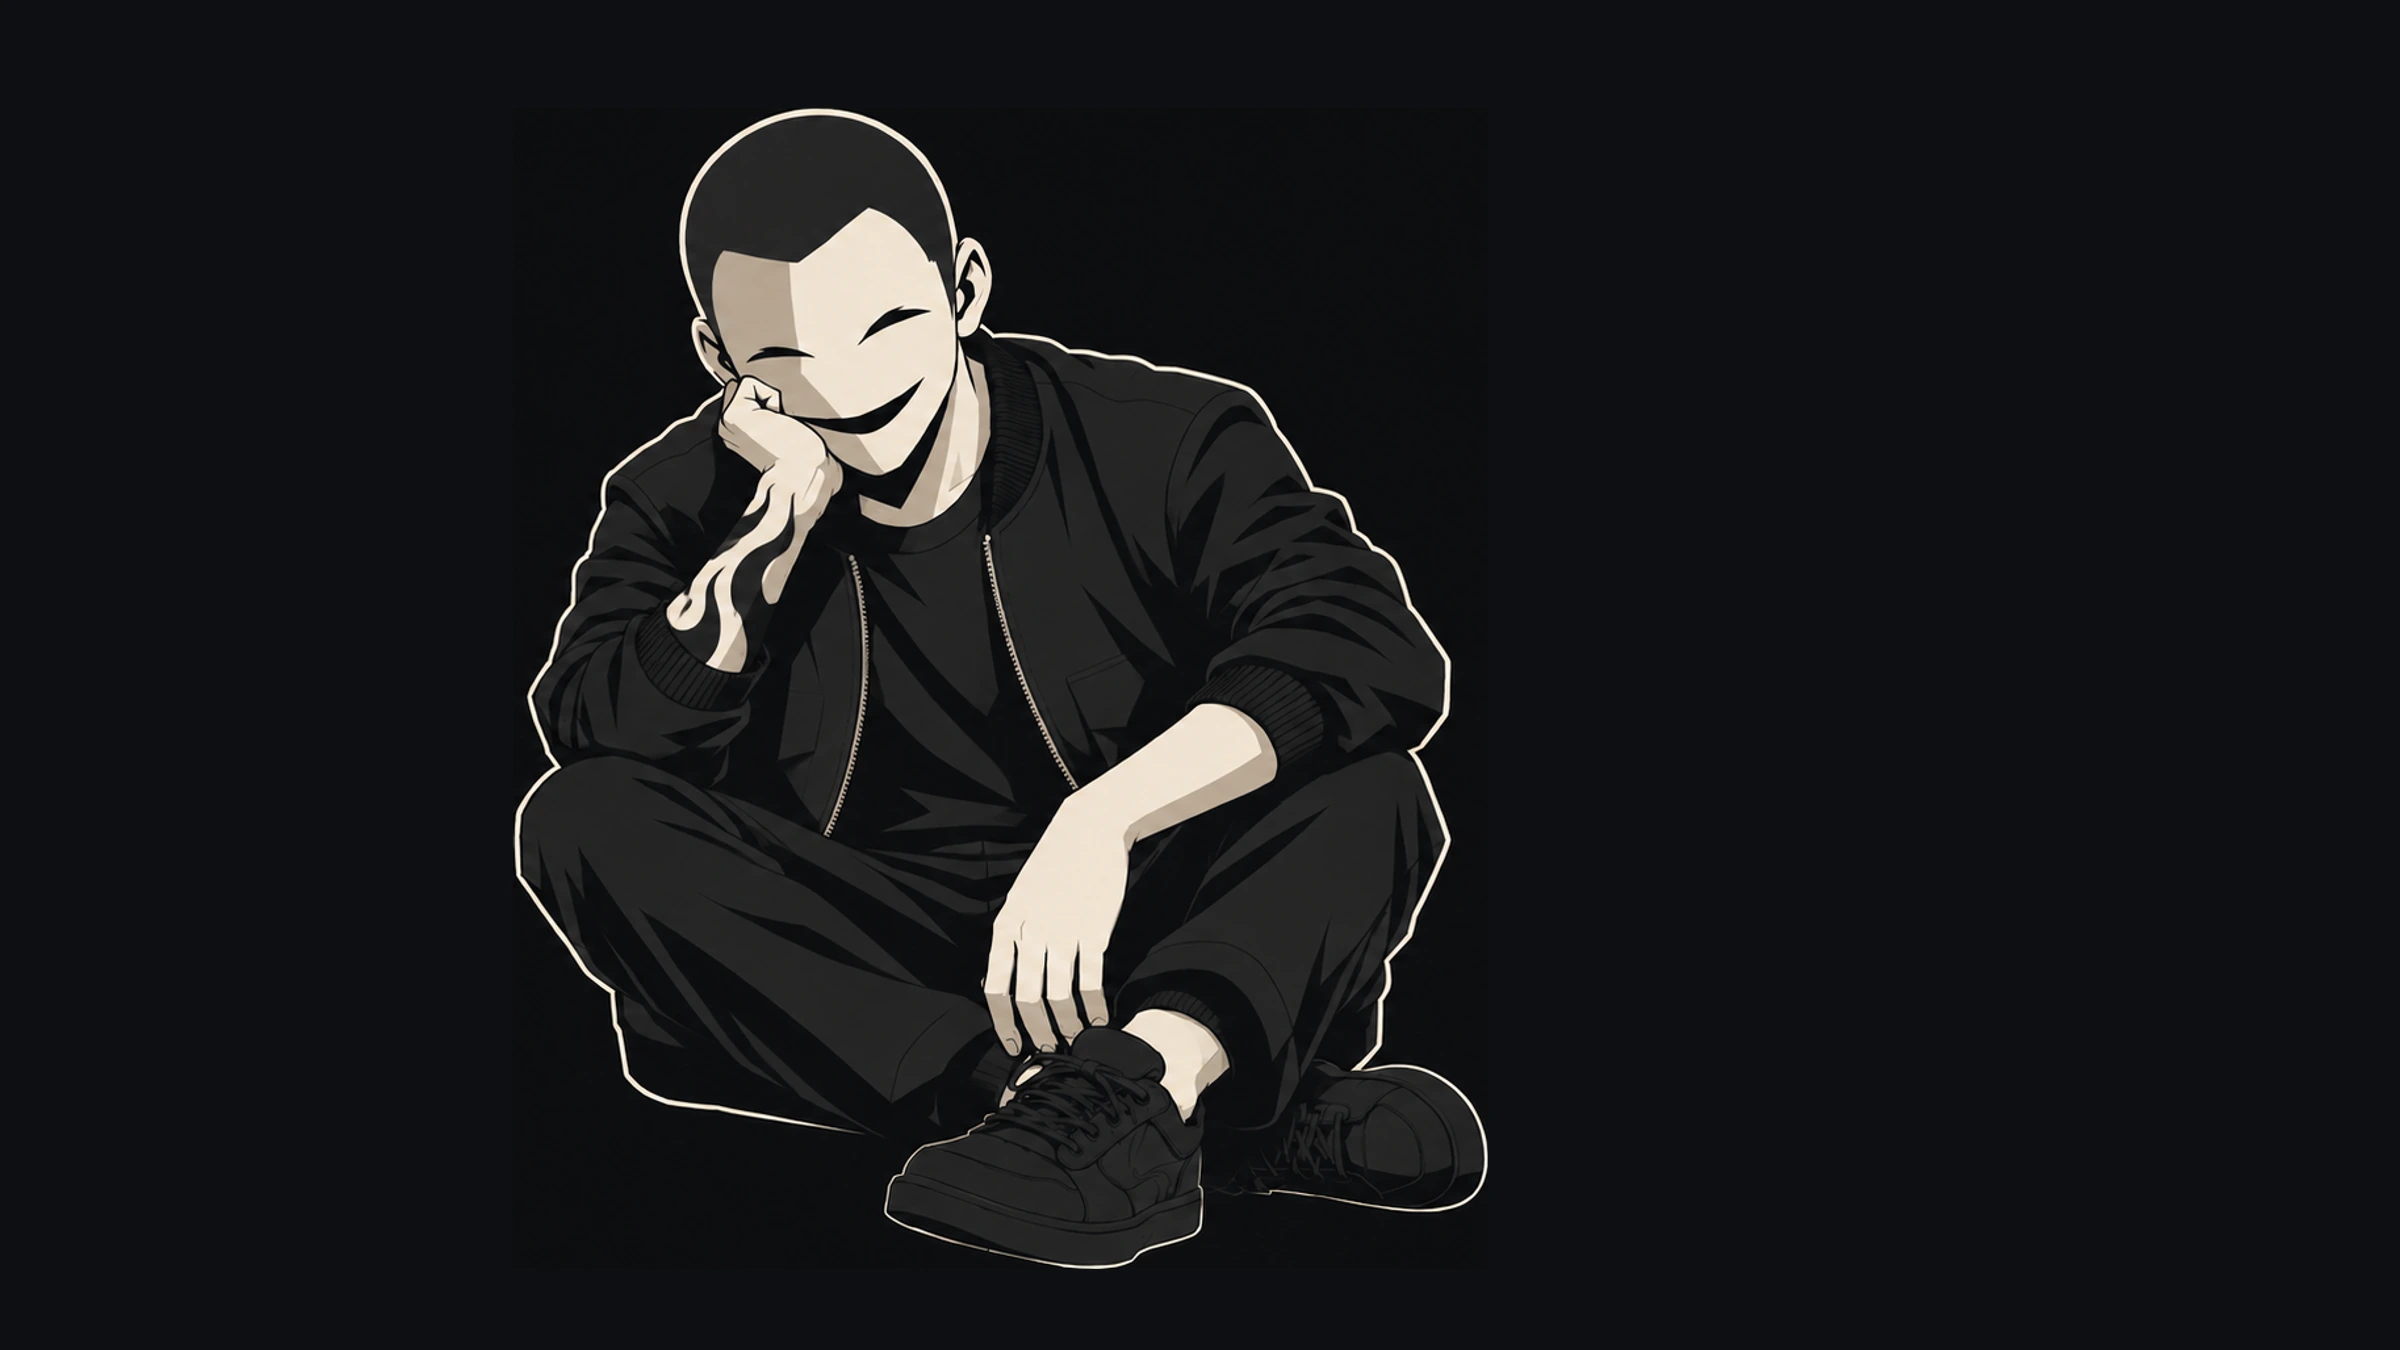
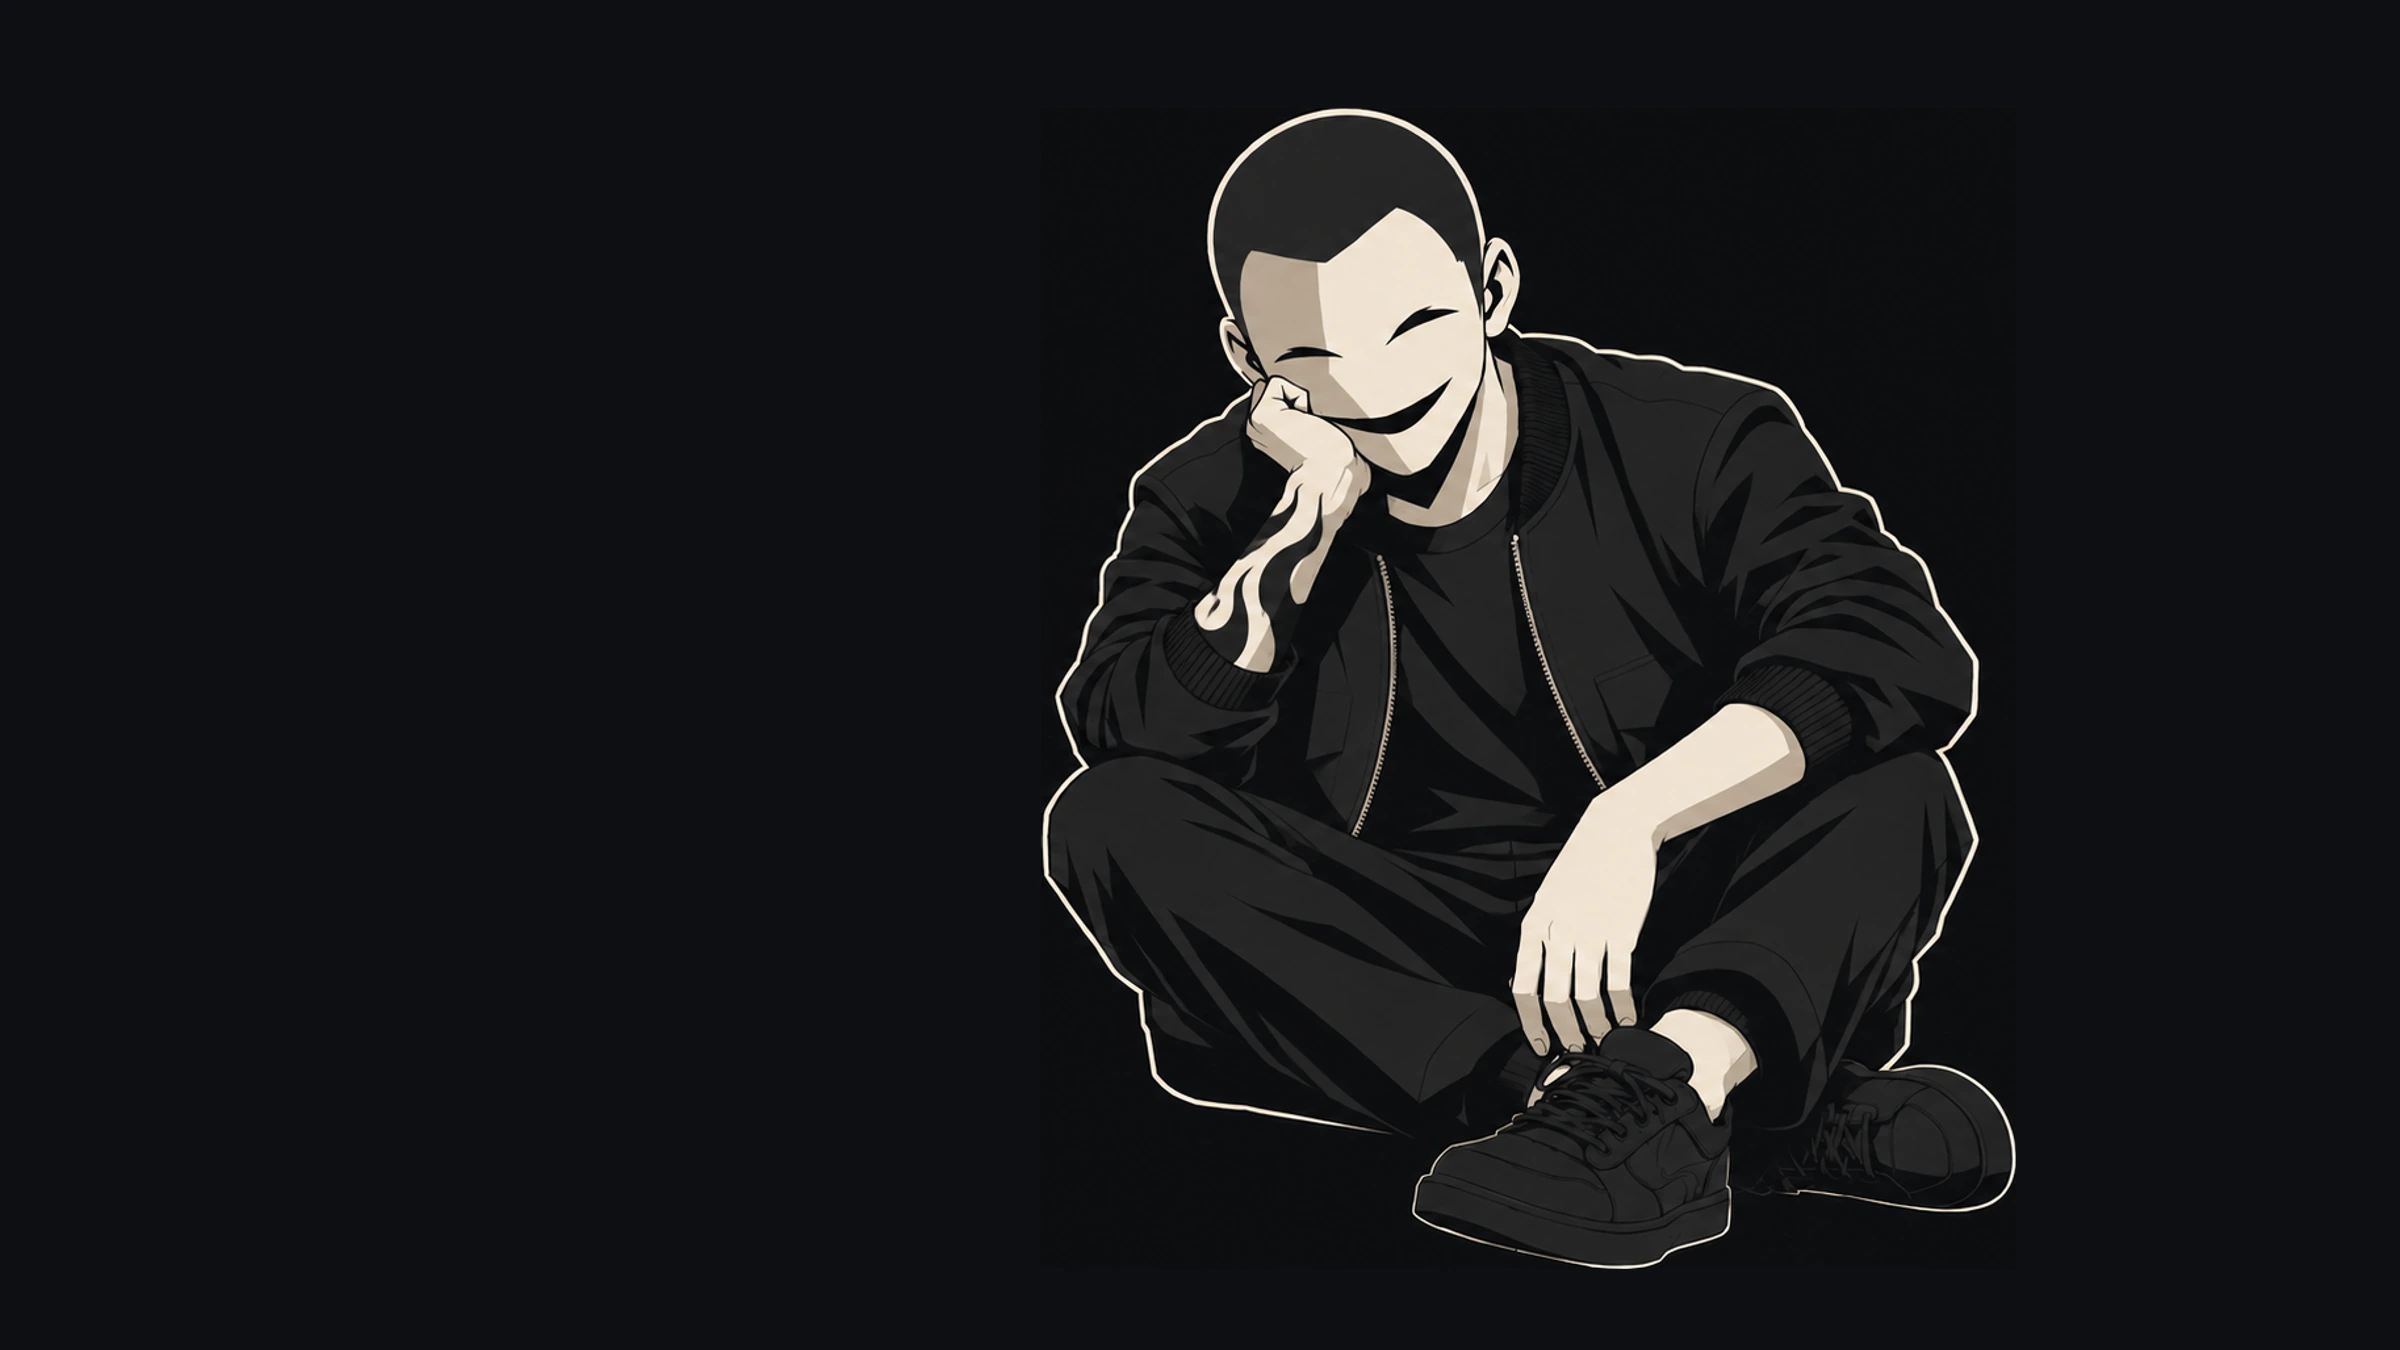
fix: hero figure was reading center-left, anchor it right instead
Text is the standard "copy left, image right" convention, and while
the mascot was already mirrored toward the right side of the frame,
the actual composed placement (right edge at 62% of canvas width, ~40%
wide) put its left edge at ~21% -- well inside where the hero copy
sits (0-30.7%, from the .content block's 640px max-width + padding).
Read as center-left, not right-anchored.

The figure and the two anchors it sits between (copy on the left,
featured-release card on the right, ~68-95% at >=1400px) don't leave a
gap wide enough to clear both entirely at the figure's natural size --
so this trades in favour of the one that actually matters: clean
separation from the copy. Overlapping text reads as broken; overlapping
the card's blurred glass panel reads as a deliberate "peeking through
the HUD" layer, which is what happens now instead (right edge pushed
from 62% to 84% of canvas width). The pose's face sits in roughly the
left 35-40% of the figure's own bounding box -- chin on fist, legs
trailing right -- so it stays clear of the card at this position too;
only a knee/shoe dips into the panel's footprint.

Verified against a render with the real text and card zones overlaid
(exact geometry pulled from Hero.module.css, not eyeballed) before
landing, rather than trusting the arithmetic alone -- this is the same
class of fix as the original face-under-card bug this pipeline exists
to prevent, so it got the same scrutiny.
[…]

diff --git a/src/components/Hero.jsx b/src/components/Hero.jsx
@@ -41,10 +41,10 @@ export default function Hero() {
   const featuredActive = track?.id === 'featured';
   const featuredPlaying = featuredActive && playing;
 
-  // The half-time head-nod. 174 BPM (the site's own stated tempo, see the
-  // coords bar below) at half-time is one hit every 60/174*2 ≈ 690ms —
-  // alternating frames every half of that gives one full
-  // listening → nod → listening cycle per hit. A hard swap, not a
+  // The head-nod. Started tempo-locked to 174 BPM half-time (690ms/cycle,
+  // see the coords bar below) but that read too fast in practice — 430ms
+  // per half (25% slower than the tempo-locked 345ms) gives a ~860ms
+  // cycle, the one that actually looked right. A hard swap, not a
   // crossfade, same as every other mascot frame change on the site.
   //
   // `nodding` only ever means "which half of the alternation is the
@@ -58,7 +58,7 @@ export default function Hero() {
     // The nod frame has never been requested before this point — without
     // this it would pop in visibly on the first nod of every playback.
     new Image().src = '/hero-desktop-listening-nod.webp';
-    const id = setInterval(() => setNodding(n => !n), 345);
+    const id = setInterval(() => setNodding(n => !n), 430);
     return () => clearInterval(id);
   }, [featuredPlaying, reducedMotion]);
 
